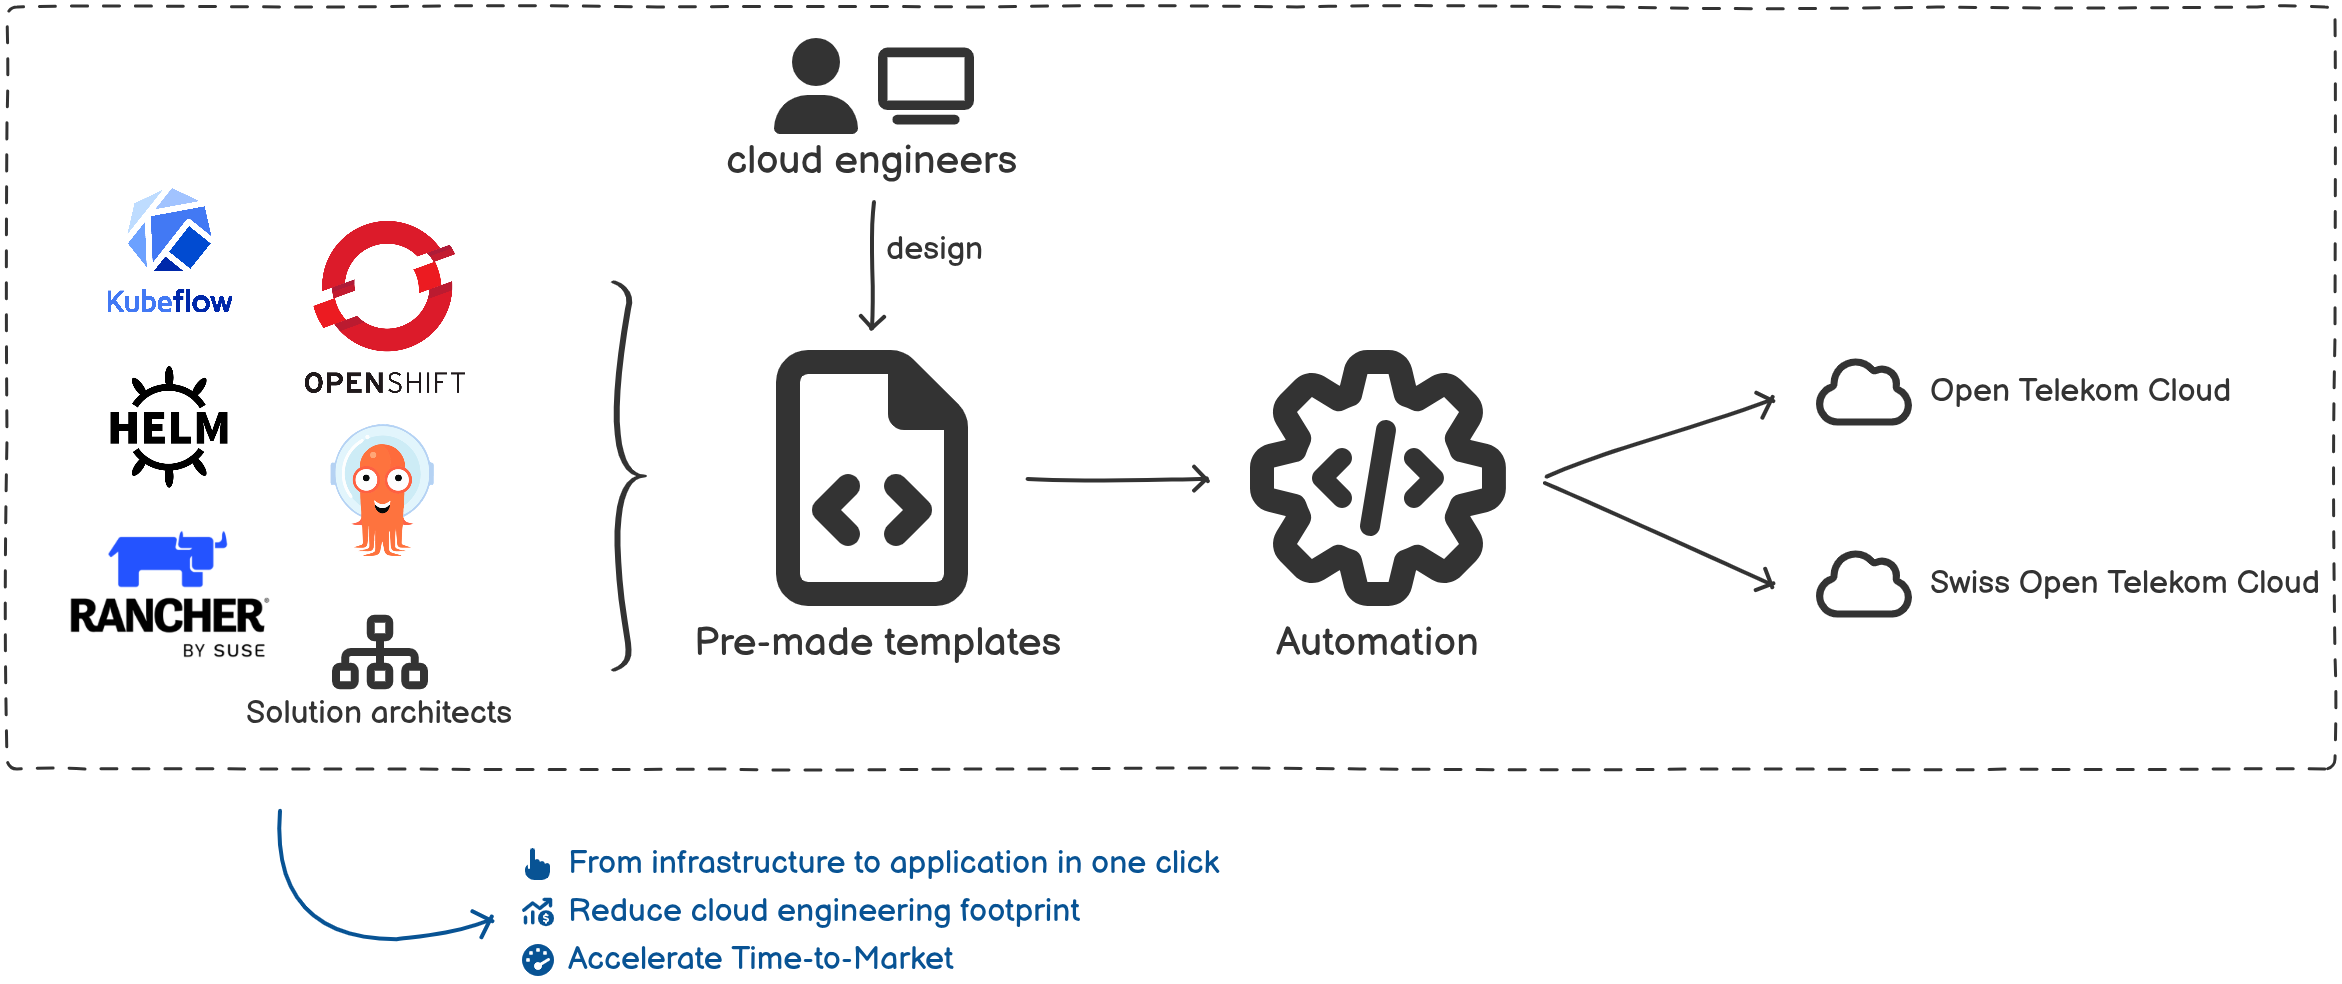
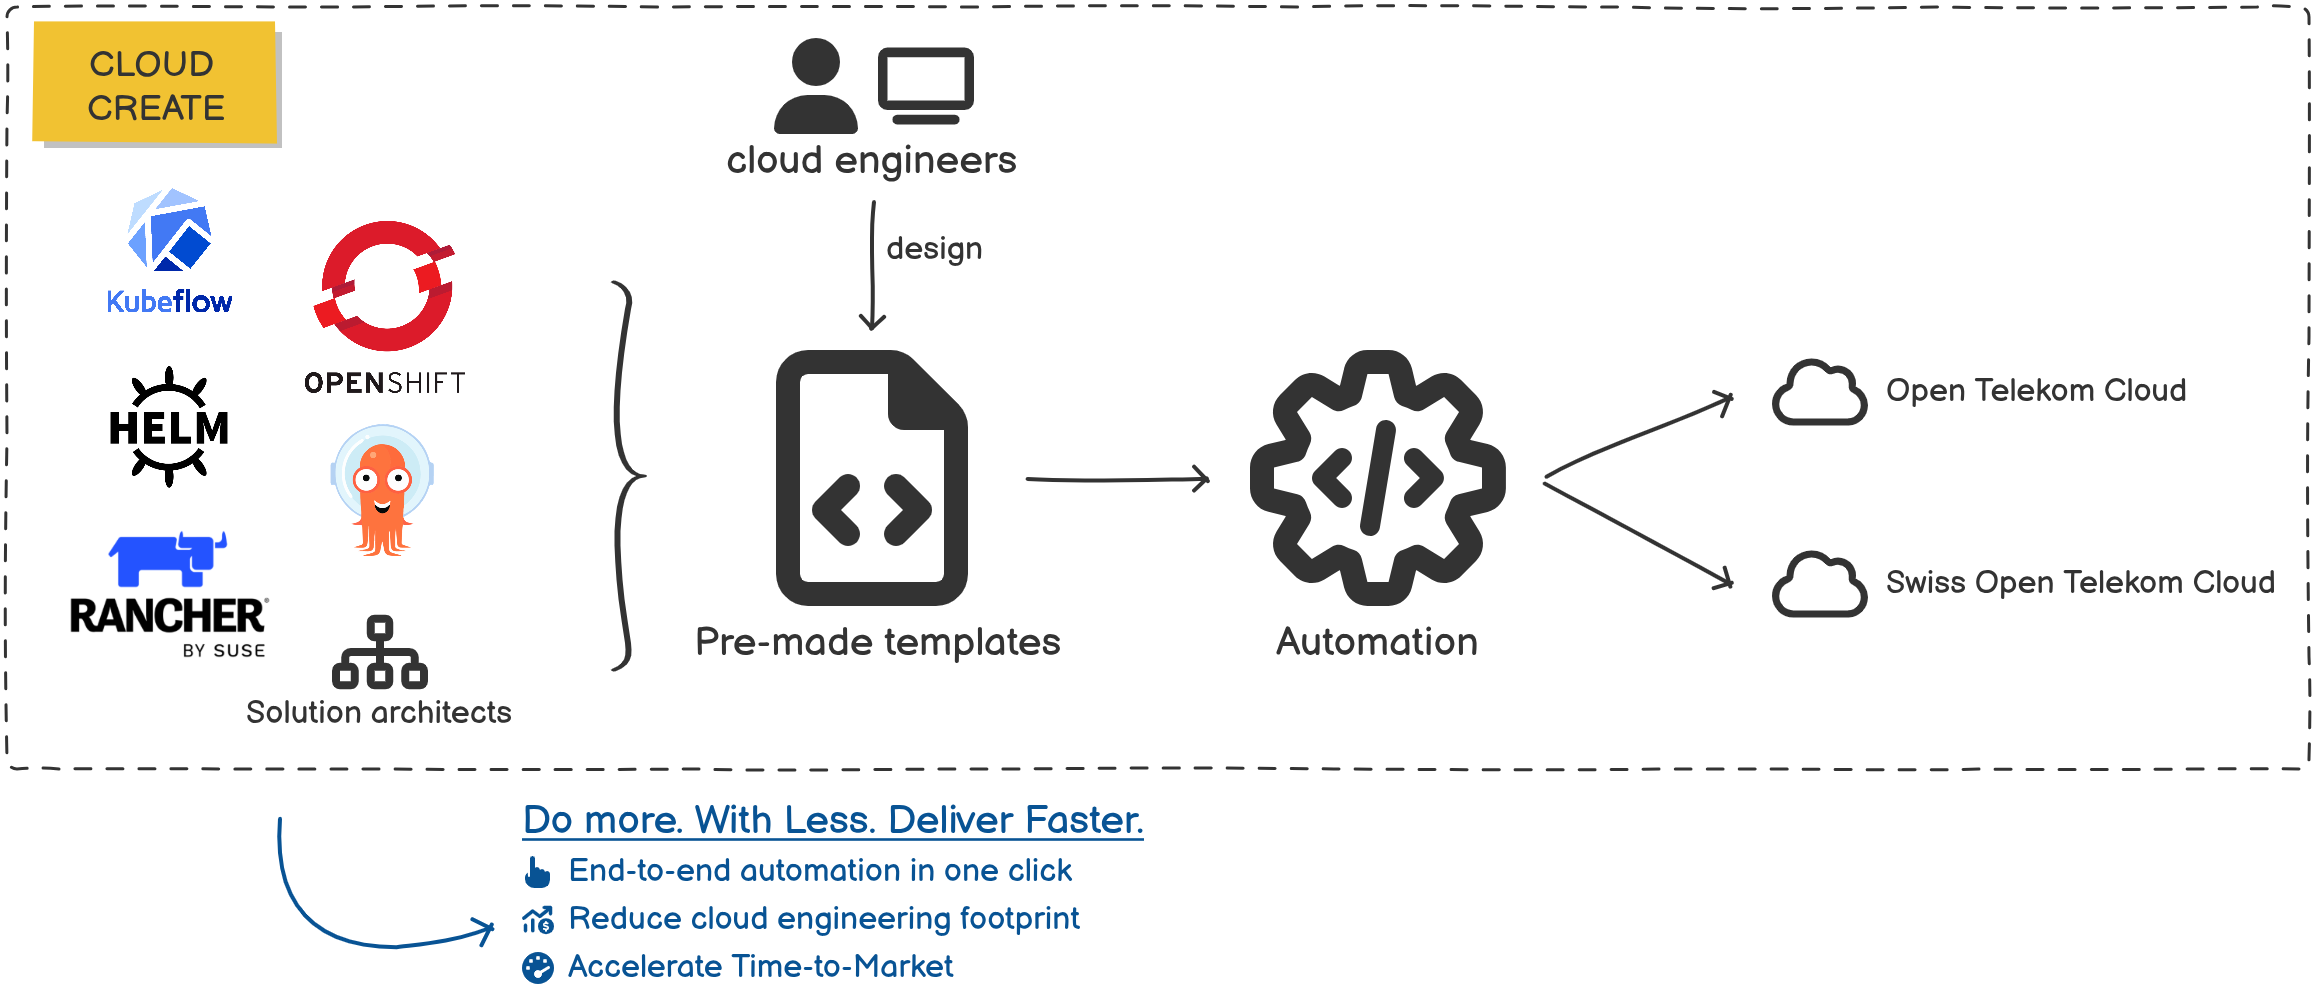
Improve index with four steps from idea to the cloud (#50)
Improve index with four steps from idea to the cloud

Update overview figure
Update four steps from idea to cloud
Add export terraform and TOSCA in index page

diff --git a/umn/source/index.rst b/umn/source/index.rst
@@ -35,7 +35,7 @@ Quick introduction
 
 Cloud Create is a free-to-use **visual cloud management platform** that helps you **reduce cloud engineering footprint**, **accelerate time-to-market**, and deploy everything **from infrastructure to applications** in just one click.
 
-Unlike traditional cloud platforms that require deep infrastructure knowledge and manual setup, Cloud Create offers a **visual designer with a growing premade templates** that enables users to deploy complex environments - such as Kubernetes, OpenShift, and Argo CD in minutes. Whether you're working on **Open Telekom Cloud** or **Swiss Open Telekom Cloud**, Cloud Create empowers you to go from idea to running applications with speed and simplicity.
+Unlike traditional cloud platforms that require deep infrastructure knowledge and manual setup, Cloud Create offers a **visual designer with a growing premade templates** that enables you to deploy complex environments - such as Kubernetes, OpenShift, and Argo CD in minutes. Whether you're working on **Open Telekom Cloud** or **Swiss Open Telekom Cloud**, Cloud Create empowers you to go from idea to running applications with speed and simplicity.
 
 .. figure:: /_static/images/features/overview1.png
   :width: 1000
@@ -47,7 +47,7 @@ Unlike traditional cloud platforms that require deep infrastructure knowledge an
 2. From Idea to Cloud in Just Four Steps
 ========================================
 
-Cloud Create makes cloud-native development simple, fast, and collaborative. Whether you're deploying your apps on OpenShift or a Cloud Container Engine (CCE), you can go from ideas to cloud in minutes:
+Cloud Create makes cloud-native development simple, fast, and collaborative. You can go from ideas to cloud in minutes:
 
 **1. Start with a premade template**
 
@@ -70,38 +70,41 @@ Turn your customized app into a private template for your team, or publish it pu
 
   Figure 2. From Idea to Cloud in Just Four Steps
 
-2.1. Visual Cloud Development Made Effortless
----------------------------------------------
+2.1. Start with a premade template
+----------------------------------
 
-With Cloud Create, building and deploying cloud-native apps is as easy as drag, drop, and click. Use our intuitive **visual designer** to architect your full-stack application - starting from **premade templates** or building from scratch:
+With Cloud Create, deploying a ready-to-use solution is easy, starting from **premade templates** or building from scratch:
 
 .. figure:: /_static/images/features/overview-templates.png
   :width: 800
 
   Figure 3. First select a premade template to start
 
-After selecting a premade template, you have the flexibility to **quickly deploy** apps right away - or use them as a starting point to **visually design and customize** your cloud architecture.
+2.2. Visually design and customize
+----------------------------------
+
+After selecting a premade template, you have the flexibility to **quickly deploy** apps right away - or use them as a starting point to **visually design and customize** your apps.
 
 .. figure:: /_static/images/features/overview-templates2.png
   :width: 800
 
   Figure 4. Quick deploy or design using the template
 
-In the design, you can seamlessly combine **infrastructure components** like compute, networking, storage, CCE, and powerful tools like **Bash**, **Ansible**, **Helm**, **Argo CD**, etc.:
+In the design, you can seamlessly combine **infrastructure components** (e.g., compute, networking, storage), **platform components** (e.g., CCE, RDS), and **software components** (e.g., Bash, Ansible, Helm, Argo CD) all together. By combining them in one single design, you have an **end-to-end automation** solution.
 
 .. figure:: /_static/images/features/overview-design2.png
   :width: 800
 
   Figure 5. Visual Design a full-stack application
 
-2.2. Simplified System Administration
--------------------------------------
+2.3. Deploy and update
+----------------------
 
 When your design is ready, simply hit “Deploy” - and Cloud Create will provision everything for you on Open Telekom Cloud in just minutes. Deploying apps with Cloud Create is simple, controlled, and fully transparent:
 
 **1. Select, Configure, and Launch**
 
-In the **Deploy** section, administrators choose the desired **application version**, fill in required **inputs**, and select a **cloud provider** - like Open Telekom Cloud. Before launching, they can easily **review the deployment workflow** to ensure everything is ready.
+In the **Deploy** section, you choose the desired **application version**, fill in required **inputs**, and select a **cloud provider** - like Open Telekom Cloud. Before launching, they can easily **review the deployment workflow** to ensure everything is ready.
 
 .. figure:: /_static/images/features/overview-deploy.png
   :width: 800
@@ -110,23 +113,36 @@ In the **Deploy** section, administrators choose the desired **application versi
 
 **2. Interactive, Step-by-Step Execution**
 
-During deployment, administrators can **follow each step in real time**. Click on any stages to see exactly what's happening - **Terraform** automates infrastructure provisioning, while **Ansible** configures services on the target compute.
+During deployment, you can **follow each step in real time**. Click on any stages to see exactly what's happening - **Terraform** automates infrastructure provisioning, while **Ansible** configures services on the target compute.
 
 .. figure:: /_static/images/features/deployment_logs.png
   :width: 800
 
   Figure 7. An example Terraform is generated and applied for a Compute
 
-2.3. Extend What’s Possible with Custom TOSCA Services
-------------------------------------------------------
+2.4. Save and share your work
+-----------------------------
+
+2.4.1. Extend What’s Possible with Custom TOSCA Services
+^^^^^^^^^^^^^^^^^^^^^^^^^^^^^^^^^^^^^^^^^^^^^^^^^^^^^^^^
 
 With Cloud Create, you're not limited to what's out of the box. Cloud engineers can define new services using the open TOSCA format and seamlessly import them into the visual designer.
 
-Whether it's a custom VM setup, a specialized software stack, or a reusable infrastructure pattern - define it once in TOSCA, then drag-and-drop it like any built-in components.
+Whether it's a custom VM setup, a specialized software stack - define it once in TOSCA, then drag-and-drop it like any built-in components.
 
 .. note::
    * Read more about :ref:`How to define and import a new service`.
    * Our premade templates and service catalogs `are opensource and available on Github <https://github.com/opentelekomcloud-blueprints/tosca-service-catalogs>`_ for transparency and contributions.
+
+2.4.2. Export Terraform & TOSCA
+^^^^^^^^^^^^^^^^^^^^^^^^^^^^^^^
+
+With Cloud Create, you can share your solution design as premade template, download it in TOSCA format, or export the cloud infrastructure in Terraform.
+
+.. figure:: /_static/images/features/export.png
+  :width: 800
+
+  Figure 8. Export options
 
 3. FAQ
 ======

diff --git a/umn/source/components_overview.rst b/umn/source/components_overview.rst
@@ -4,7 +4,9 @@
 Components overview
 *******************
 
-The section shows an overview of all components that you can use to design your application. Some components are not yet supported but we can add more upon requests. If you have any requests, please `contact us <https://open-telekom-cloud.com/de/kontakt>`_.
+This section shows an overview of all components that you can use to design your application. Some components are not yet supported but we can add more upon requests.
+
+.. hint:: If you want to suggest a feature or ask a quick question, please `ask a question in the Open Telekom Cloud Community <https://community.open-telekom-cloud.com/community?id=community_ask_question>`_. Choose the forum **Orchestration and Automation** and select topic **Cloud Create** to ask a question.
 
 Network
 =======
